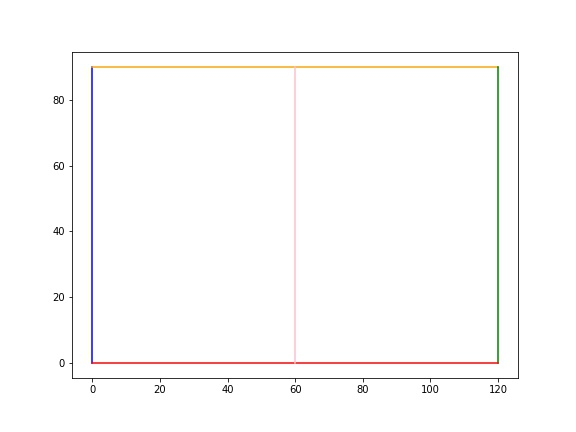
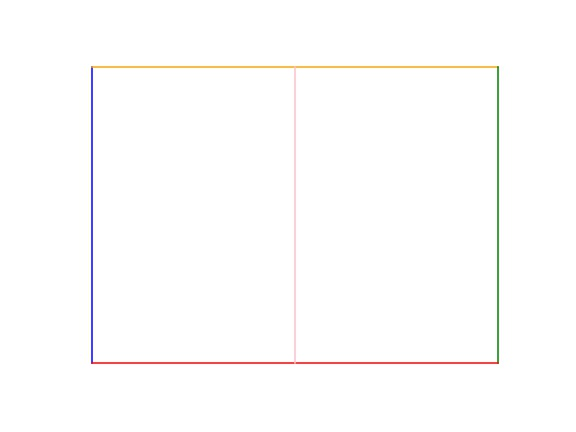
pitch revision

diff --git a/_posts/2019-07-24-Drawing a Football Pitch Map.md b/_posts/2019-07-24-Drawing a Football Pitch Map.md
@@ -3,187 +3,149 @@ layout: post
 title:  "Drawing a Football Picth Map"
 date: 2019-07-24
 author: YoungHwan Seol
-categories: Football Data
+categories: Football
 ---
 
-###### 모든 내용은 https://fcpython.com을 참고하였음을 밝힙니다.
+모든 내용은 https://fcpython.com을 참고하였음을 먼저 밝힙니다.
 
 히트맵(Heatmap)을 그리기 이전에 피치(Pitch)를 먼저 그릴 수 있어야 한다.
 
-피치를 그리는 과정은 다음과 같이 골라인(Goal Line)과 터치 라인(Touch Line)을 그리는 것에서 시작한다.
+피치를 그리는 과정은 다음과 같이 골라인(Goal Line)과 터치 라인(Touch Line)을 그리는 것에서 시작한다. 순차적으로 1. 골라인과 터치라인 그리기 2. 센터서클 그리기 3. 페널티박스와 페널티아크 그리기 4. 모든 과정을 하나의 함수로 만들기 과정으로 진행된다.
 
 ~~~
-	import matplotlib.pyplot as plt
-	from matplotlib.patches import Arc
+import matplotlib.pyplot as plt
+from matplotlib.patches import Arc
 ~~~
 
-먼저 FIFA의 경기장 국제 규격에 따라서 터치라인 길이를 120m로 골라인 길이를 90m로 하여 피치를 그리기로 한다. 
+먼저 FIFA의 경기장 국제 규격에 따라서 터치라인 길이를 120m로 골라인 길이를 90m로 하여 피치를 그리기로 한다.
 ~~~
-	fig=plt.figure(figsize=[8,6])
-	ax=fig.add_subplot(1,1,1)
+fig=plt.figure(figsize=[8,6])
+ax=fig.add_subplot(1,1,1)
 
-	plt.plot([0,0],[0,90], color="blue")
-	plt.plot([0,120],[90,90], color="orange")
-	plt.plot([120,120],[90,0], color="green")
-	plt.plot([120,0],[0,0], color="red")
-	plt.plot([60,60],[0,90], color="pink")
-
-	plt.show()
+plt.plot([0,0],[0,90], color="blue")
+plt.plot([0,120],[90,90], color="orange")
+plt.plot([120,120],[90,0], color="green")
+plt.plot([120,0],[0,0], color="red")
+plt.plot([60,60],[0,90], color="pink")
+plt.axis('off')
+plt.savefig(r'C:\seolbluewings.github.io\images\picth_image1.jpg')
 ~~~
 
 ![Pitch Draw](/images/picth_image1.jpg)
 
+다음은 센터서클을 그리는 과정이다. centreCircle, centreSpot으로 표기된 부분이 센터서클과 센터스팟을 찍는 코드이다.
 
+~~~
+fig=plt.figure(figsize=[8,6])
+ax=fig.add_subplot(1,1,1)
 
-$$ Y_{i}^{*} \sim \mathcal{N}(x_{i}^{T}\beta,1) $$
+plt.plot([0,0],[0,90], color="black")
+plt.plot([0,120],[90,90], color="black")
+plt.plot([120,120],[90,0], color="black")
+plt.plot([120,0],[0,0], color="black")
+plt.plot([60,60],[0,90], color="black")
 
-만약 $$Y_{i}^{*}>0$$이라면 $$Y_{i}=1$$이며, $$Y_{i}^{*}\leq 0$$이라면 $$Y_{i}=0$$이다.
+centreCircle = plt.Circle((60,45),9.15,color="red",fill=False)
+centreSpot = plt.Circle((60,45),0.8,color="blue")
 
-따라서 이항변수 $$Y_{i}=1$$인 사건은 연속형 변수 $$Y_{i}^{*}>0$$인 사건과 동일하며, 다음과 같이 정리할 수 있다.
+ax.add_patch(centreCircle)
+ax.add_patch(centreSpot)
+plt.axis('off')
+plt.savefig(r'C:\seolbluewings.github.io\images\picth_image2.jpg')
+~~~
 
-$$P(Y_{i}=1)=P(Y_{i}^{*}>0)=1-\Phi(-x_{i}^{T}\beta)=\Phi(x_{i}^{T}\beta)$$
+![Pitch Draw](/images/picth_image2.jpg)
 
-이 식이 성립하는 이유는 다음과 같다.
+다음으로는 페널티박스와 페널티아크를 그려야 한다.
 
-$$
-\begin{align}
-	Pr(Y=1|X) &= Pr(Y^{*}>0) \\
-    &= Pr(X^{T}\beta+\epsilon > 0) \\
-    &= Pr(\epsilon > - X^{T}\beta) \\
-    &= Pr(\epsilon < X^{T}\beta) \text{  by Symmetry of the normal-dist}\\
-    & =\Phi(X^{T}\beta) \\
-    & =1-\Phi(-X^{T}\beta)
-\end{align}
-$$
+~~~
+fig=plt.figure(figsize=[8,6])
+ax=fig.add_subplot(1,1,1)
 
-$$Y_{i}^{*}$$는 관측변수가 아니므로 모수로 취급하여 새로운 likelihood를 구할 수 있으며 이를 표현하면 다음과 같을 것이다.
+plt.plot([0,0],[0,90], color="black")
+plt.plot([0,120],[90,90], color="black")
+plt.plot([120,120],[90,0], color="black")
+plt.plot([120,0],[0,0], color="black")
+plt.plot([60,60],[0,90], color="black")
 
-$$l(y^{*}|\beta,y) = \prod_{i=1}^{n} \phi(y_{i}^{*}|x_{i}^{T}\beta,1)[I(y_{i}^{*}>0,y_{i}=1)+I(y_{i}^{*}\leq 0,y_{i}=0)]$$
+#Penalty Area 그리기
+plt.plot([16.5,16.5],[65,25],color="black")
+plt.plot([0,16.5],[65,65],color="black")
+plt.plot([16.5,0],[25,25],color="black")
 
-여기서 $$\phi(y_{i}^{*}\|x_{i}^{*}\beta,1)$$ 은 $$\mathcal{N}(x_{i}^{T}\beta,1)$$ 분포의 $$y_{i}^{*}$$에서의 pdf 값이다.
+centreCircle = plt.Circle((60,45),9.15,fill=False)
+centreSpot = plt.Circle((60,45),0.8)
+ax.add_patch(centreCircle)
+ax.add_patch(centreSpot)
 
-다음과 같이 정의하면, $$\beta$$에 대한 conditional posterior distribution을 구할 수 있다.
+#Penalty Arc 그리기
+leftArc = Arc((11,45),height=18.3,width=18.3,angle=0,theta1=310,theta2=50,color="red")
 
-$$\mathbf{y}=(y_{1},...,y_{n}), \mathbf{y}^{*}=(y^{*}_{1},...,y^{*}_{n}), \mathbf{X}=(x_{1},...,x_{n})$$ 일 때,
+ax.add_patch(leftArc)
+plt.axis('off')
+plt.savefig(r'C:\seolbluewings.github.io\images\picth_image3.jpg')
+~~~
 
-$$
-\begin{align}
-	\pi(\beta|\mathbf{y},\mathbf{y}^{*}) &\propto exp[-\frac{1}{2}\{(\mathbf{y}^{*}-\mathbf{X}\beta)^{T}(\mathbf{y}^{*}-\mathbf{X}\beta)+(\beta-\beta_{0})^{T}\Sigma^{-1}_{0}(\beta-\beta_{0})\}] \\
-    &\propto exp[-\frac{1}{2}\{\beta^{T}(\mathbf{X}^{T}\mathbf{X}+\Sigma^{-1}_{0})\beta-2\beta^{T}(\mathbf{X}^{T}\mathbf{y}^{*}+\Sigma^{-1}_{0}\beta_{0})\}]
-\end{align}
-$$
+![Pitch Draw](/images/picth_image3.jpg)
 
-다음과 같이 $$\beta$$에 대한 conditional posterior를 구할 수 있고 그 결과는 아래와 같다.
+지금까지의 과정에 반대편 페널티 박스와 6-yard 박스를 추가하여 하나의 함수로 만들면 다음과 같다.
 
-$$
-\begin{align}
-	\beta|\mathbf{y},\mathbf{y}^{*} &\sim \mathcal{N}(\mu_{\pi},\Sigma_{\pi}) \\
-    \Sigma_{\pi} &= (\mathbf{X}^{T}\mathbf{X}+\Sigma^{-1}_{0})^{-1} \\
-    \mu_{\pi} &= \Sigma_{\pi}(\mathbf{X}^{T}y^{*}+\Sigma^{-1}_{0}\beta_{0})
-\end{align}
-$$
+~~~
+def createPitch():
+    
+    #Create figure
+    fig=plt.figure(figsize=[8,6])
+    ax=fig.add_subplot(1,1,1)
 
-따라서 잠재변수(Latent Variable) $$Y_{i}^{*}$$의 conditional posterior distribution은 다음과 같이 truncated Normal distribution을 따른다.
+    #Pitch Outline & Centre Line
+    plt.plot([0,0],[0,90], color="black")
+    plt.plot([0,120],[90,90], color="black")
+    plt.plot([120,120],[90,0], color="black")
+    plt.plot([120,0],[0,0], color="black")
+    plt.plot([60,60],[0,90], color="black")
+    
+    #Left Penalty Area
+    plt.plot([16.5,16.5],[65,25],color="black")
+    plt.plot([0,16.5],[65,65],color="black")
+    plt.plot([16.5,0],[25,25],color="black")
+    
+    #Right Penalty Area
+    plt.plot([120,103.5],[65,65],color="black")
+    plt.plot([103.5,103.5],[65,25],color="black")
+    plt.plot([103.5,120],[25,25],color="black")
+    
+    #Left 6-yard Box
+    plt.plot([0,5.5],[54,54],color="black")
+    plt.plot([5.5,5.5],[54,36],color="black")
+    plt.plot([5.5,0.5],[36,36],color="black")
+    
+    #Right 6-yard Box
+    plt.plot([120,114.5],[54,54],color="black")
+    plt.plot([114.5,114.5],[54,36],color="black")
+    plt.plot([114.5,120],[36,36],color="black")
+    
+    #Prepare Circles
+    centreCircle = plt.Circle((60,45),9.15,color="black",fill=False)
+    centreSpot = plt.Circle((60,45),0.8,color="black")
+    leftPenSpot = plt.Circle((11,45),0.8,color="black")
+    rightPenSpot = plt.Circle((109,45),0.8,color="black")
+    
+    #Draw Circles
+    ax.add_patch(centreCircle)
+    ax.add_patch(centreSpot)
+    ax.add_patch(leftPenSpot)
+    ax.add_patch(rightPenSpot)
+    
+    leftArc = Arc((11,45),height=18.3,width=18.3,angle=0,theta1=310,theta2=50,color="black")
+    rightArc = Arc((109,45),height=18.3,width=18.3,angle=0,theta1=130,theta2=230,color="black")
+    ax.add_patch(leftArc)
+    ax.add_patch(rightArc)
+    
+    plt.axis('off')
+    
+    plt.show()
+    
+createPitch()
+~~~
 
-$$
-y^{*}_{i}|y_{i},x_{i},\beta \sim
-\begin{cases}
-	\mathcal{N}(x_{i}^{T}\beta,1)\mathcal{I}(y_{i}^{*} \leq 0) \\
-	\mathcal{N}(x_{i}^{T}\beta,1)\mathcal{I}(y_{i}^{*} > 0)
-\end{cases}
-$$
-
-Truncated Normal distribution에서의 Sampling은 distribution이 얼마나 truncated 되어있는가에 따라 다르며 제한없는 $$\mathcal{N}(\mu,\sigma^{2})$$로부터 난수를 생성한 다음, 구간 (a,b)에 속하는 난수만 취하고 나머지는 버리는 rejection-method를 사용하므로 구간(a,b)의 확률이 작을 경우 비효율적일 수 있다. 그러나 역누적분포기법(Inverse CDF)을 사용하여 그러한 비효율을 막을 수 있다.
-
-임의의 누적분포함수 F에 대하여
-
-$$F(X) \sim U(0,1)$$
-
-임을 이용하여, $$U \sim U(0,1)$$을 생성한 다음, $$X=F^{-1}(U)$$ 변환을 이용해 누적분포함수 F를 갖는 난수 X를 얻는 방법이다. 이를 truncated-Normal distribution, $$\mathcal{N}(\mu,\sigma^{2})\mathcal{I}(a,b)$$에 적용하면, 다음과 같다.
-
-$$
-\begin{align}
-	\frac{\Phi\left(\frac{X-\mu}{\sigma}\right)-\Phi\left(\frac{a-\mu}{\sigma}\right)}{\Phi\left(\frac{b-\mu}{\sigma}\right)-\Phi\left(\frac{a-\mu}{\sigma}\right)} &= U \\
-    U &\sim U(0,1)
-\end{align}
-$$
-
-$$ X = \Phi^{-1}\left(U\times\Phi\left(\frac{b-\mu}{\sigma}\right)+(1-U)\times \Phi\left(\frac{a-\mu}{\sigma}\right) \right)
-$$
-
-#### 예시
-
-30개의 실험대상에 대하여 관측한 결과, X값으로 첫 10개 대상은 0, 다음 10개 대상은 1, 나머지 10개 대상은 2값을 갖는다. y는 0 또는 1값을 갖고 $$ y_{1} \sim y_{3}=1, y_{4}\sim y_{10}=0, y_{11}\sim y_{15}=1, y_{16}\sim y_{20}=0, y_{21}\sim y_{22}=1, y_{23}\sim y_{30}=0 $$이다. 이 자료에 대해 Probit 모형을 적용하고, $$\beta_{0},\beta_{1}$$의 사전 분포로 각 $$\mathcal{N}(0,100)$$을 주자.
-
-$$
-\begin{align}
-	Y_{i} &\sim Ber(p_{i}) \\
-    \Phi^{-1}(p_{i}) &= \beta_{0}+\beta_{1}(x_{i}-\bar{x})
-\end{align}
-$$
-
-```
-library(mvtnorm)
-y=rep(c(1,0,1,0,1,0),c(3,7,5,5,2,8))
-x=rep(c(0,1,2),c(10,10,10))
-x=x-mean(x)
-X=cbind(rep(1,30),x)
-p=2; n=30
-beta0=rep(0,2)
-Beta0=diag(100,2)
-
-### initialize
-
-beta=beta0
-iter=3000; warm=1000
-beta_mat=matrix(0,nrow=iter,ncol=p)
-beta_Sig=solve(t(X)%*%X+Beta0)
-ystar=rep(0,n)
-
-### truncated normal random generator
-
-trunc_norm=function(mu,sigma,l,u){
-  unif=runif(1,0,1)
-  trunc_norm=qnorm(unif*pnorm((u-mu)/sigma)+
-                    (1-unif)*pnorm((l-mu)/sigma))*sigma+mu
-}
-
-
-### MCMC
-
-for(i in 1:iter+warm){
-  ## generate y_star
-  for(j in 1:n){
-    if(y[j]==1){
-      ystar[j]=trunc_norm((X[j,])%*%beta,1,0,Inf)
-    } else{
-      ystar[j]=trunc_norm((X[j,])%*%beta,1,-Inf,0)
-    }
-  }
-  ## generate beta
-  beta_mu=beta_Sig%*%(t(X)%*%ystar+solve(Beta0)%*%beta0)
-  beta=rmvnorm(1,beta_mu,beta_Sig)
-  if(i>warm){
-    beta_mat[i-warm,]=beta
-  }
-}
-
-beta_hat=c(0,0)
-for(i in 1:p){
-  beta_hat[i]=mean(beta_mat[,i])
-}
-
-par(mfrow=c(2,2))
-plot(beta_mat[,1],type="l",xlab="",ylab=expression(paste(beta[0])))
-plot(beta_mat[,2],type="l",xlab="",ylab=expression(paste(beta[1])))
-
-plot(density(beta_mat[,1]),xlab=expression(paste(beta[0])),ylab="posterior",main="")
-abline(v=beta_hat[1],lty=2)
-plot(density(beta_mat[,2]),xlab=expression(paste(beta[1])),ylab="posterior",main="")
-abline(v=beta_hat[2],lty=2)
-```
-
-
-
-
-
+![Pitch Draw](/images/picth_image4.jpg)
